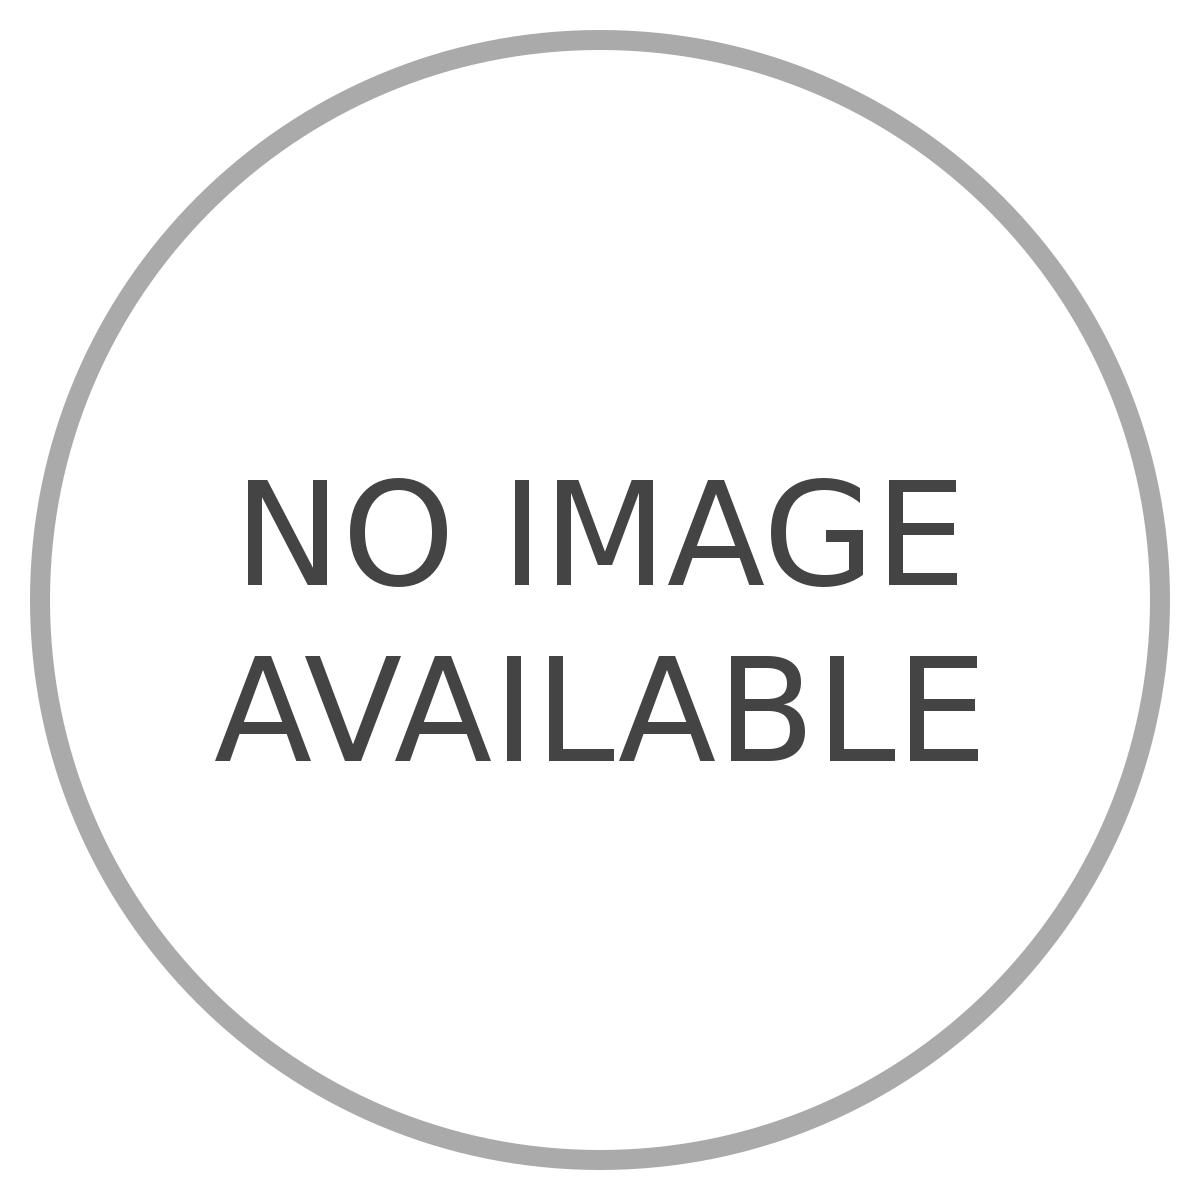
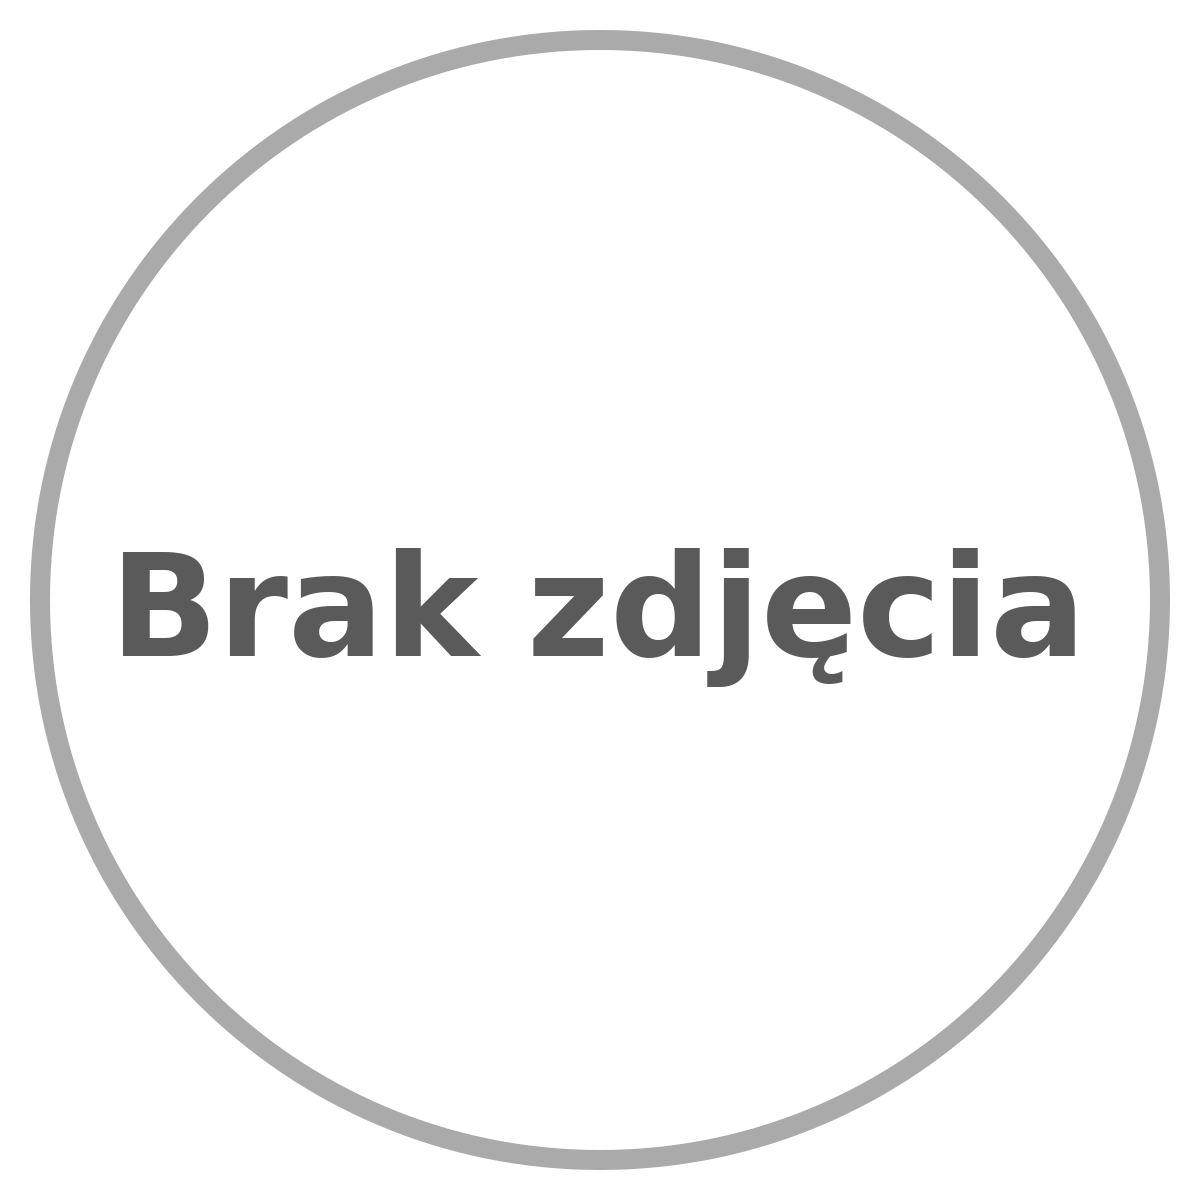
change text of picture to polish language

Changed region(s): [[0.0925, 0.4008, 0.8942, 0.6475]]

diff --git a/src/components/GymItem.js b/src/components/GymItem.js
@@ -9,17 +9,17 @@ class GymItem extends Component {
           <div className="listing-content">
             <div className="place-for-img">
               {/* <img id="myimg" src={gym.photo} /> */}
-              {/* {this.image(gym.id) ? (
-                    <img id="myimg" src={this.image(gym.id)} alt="gym" />
-                  ) : (
-                    <div className="place-for-img">
-                      <img
-                        id="myimg"
-                        src={require("../img/no_image.svg.png")}
-                        alt="nothing"
-                      />
-                    </div>
-                  )} */}
+              {this.props.url ? (
+                <img id="myimg" src={this.props.url} alt="gym" />
+              ) : (
+                <div className="place-for-img">
+                  <img
+                    id="myimg"
+                    src={require("../img/no_image.svg.png")}
+                    alt="nothing"
+                  />
+                </div>
+              )}
             </div>
             <div className="gym-short-info">
               <h3 className="listing-header">{this.props.gym.gymName}</h3>

diff --git a/src/components/SearchGym.js b/src/components/SearchGym.js
@@ -116,6 +116,7 @@ export default class SearchGym extends Component {
               // category
               // categoryLayoutRenderer={categoryLayoutRenderer}
               // categoryRenderer={categoryRenderer}
+              placeholder="Wprowadź nazwę"
               loading={isLoading}
               onResultSelect={this.handleResultSelect}
               onSearchChange={_.debounce(this.handleSearchChange, 500, {
